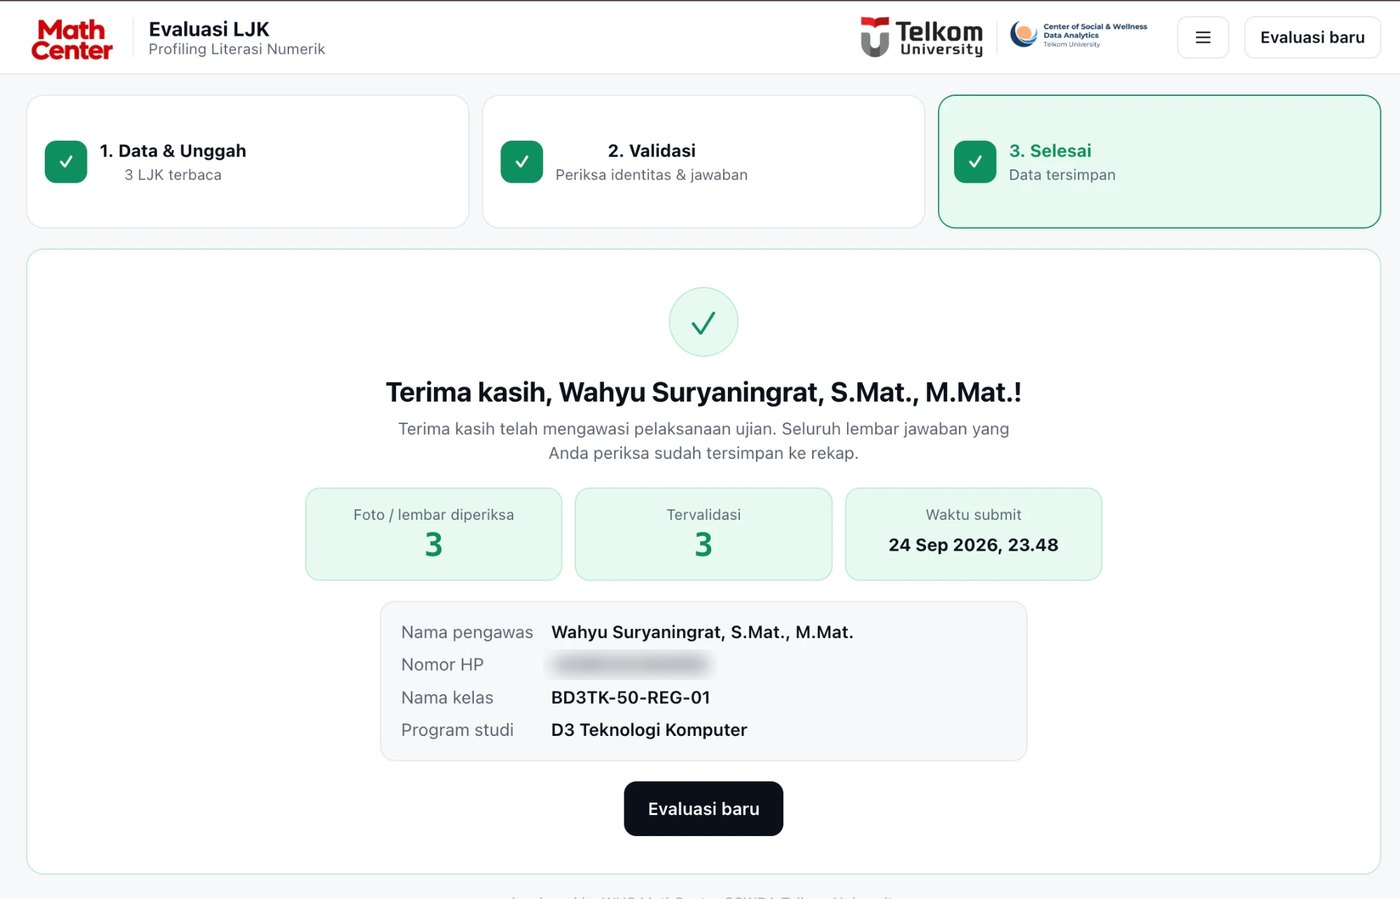
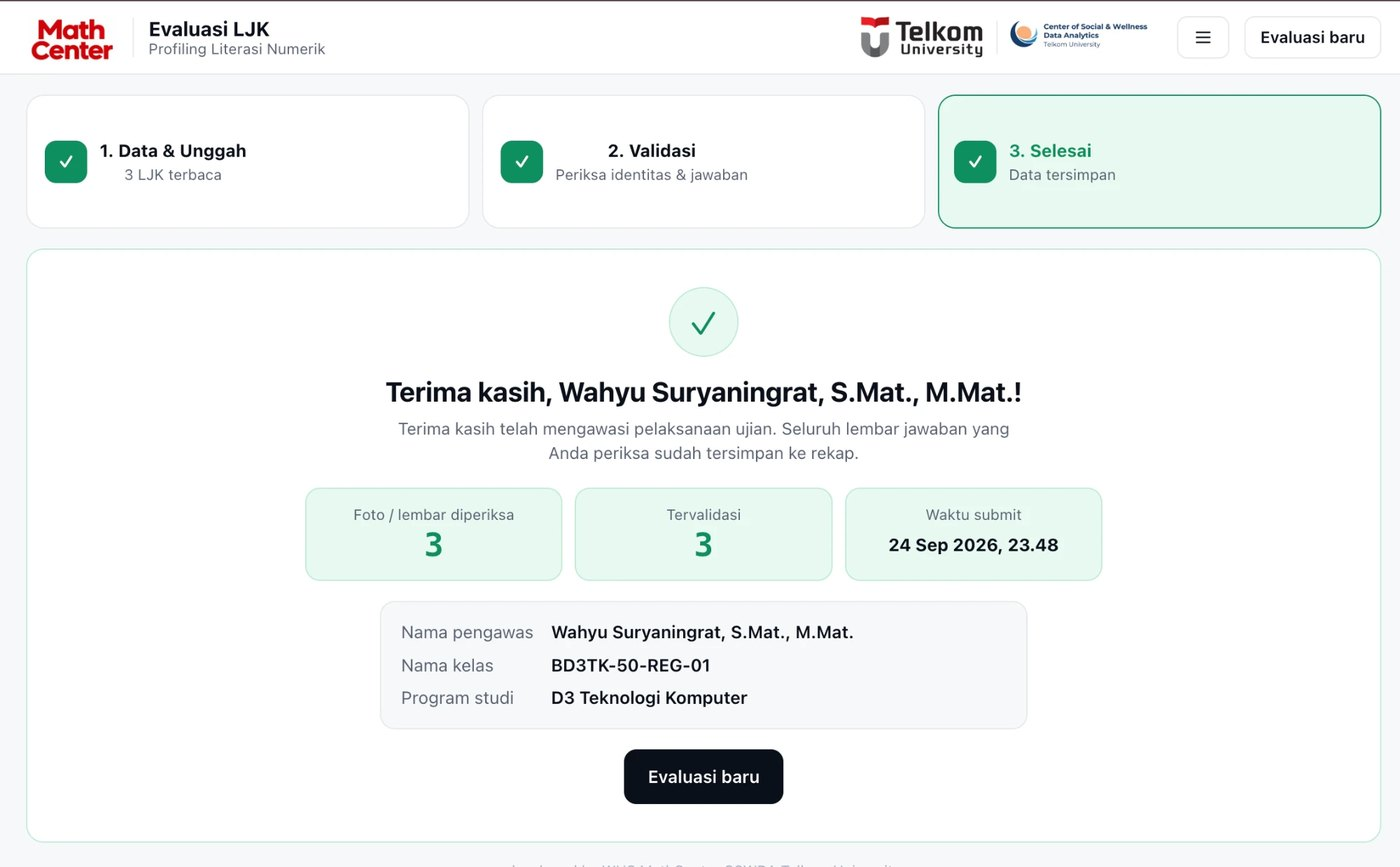
docs(panduan): unggah ulang foto Warning (gambar), status beraksen emoji tanpa Gagal, FAQ WAG; hapus nomor HP di halaman sukses

diff --git a/server/static/panduan.html b/server/static/panduan.html
@@ -51,6 +51,9 @@ section.s h3{font-size:clamp(21px,3.5vw,28px);margin:6px 0 14px}
 .stt{display:grid;gap:10px;grid-template-columns:repeat(auto-fit,minmax(min(100%,190px),1fr));margin-top:14px}
 .stt div{background:var(--card);border:1px solid var(--line);border-radius:12px;padding:12px 14px;font-size:14px;color:var(--ink2)}
 .stt b{display:block;color:var(--ink);margin-bottom:2px}
+.stt .st-c{background:#FFF8DB;border-color:#F3E3A0}.stt .st-c b{color:#8A6500}
+.stt .st-w{background:var(--bad-bg);border-color:var(--bad-line)}.stt .st-w b{color:var(--bad)}
+.stt .st-v{background:var(--ok-bg);border-color:var(--ok-line)}.stt .st-v b{color:var(--ok)}
 details.q{background:var(--card);border:1px solid var(--line);border-radius:12px;margin-bottom:10px}
 details.q summary{cursor:pointer;padding:14px 16px;font-weight:600;list-style:none;display:flex;justify-content:space-between;gap:12px}
 details.q summary::-webkit-details-marker{display:none}
@@ -144,21 +147,23 @@ footer.f{text-align:center;color:var(--ink3);font-size:12px;padding:32px 16px}
           <figcaption><b>!</b> Tekan <b>Submit hasil LJK</b> hanya kalau semua lembar sudah benar.</figcaption></figure></li>
     </ol>
     <div class="stt">
-      <div><b>Checking</b>Menunggu validasi Anda.</div>
-      <div><b>Warning</b>Ada yang perlu diperiksa, cek dan perbaiki dulu.</div>
-      <div><b>Validated</b>Sudah Anda setujui.</div>
-      <div><b>Gagal</b>Pojok LJK tidak terbaca, ganti dengan foto baru.</div>
+      <div class="st-c"><b>&#9203; Checking</b>Menunggu validasi Anda.</div>
+      <div class="st-w"><b>&#9888;&#65039; Warning</b>Ada data janggal (mis. NPM kurang digit atau jawaban terisi rendah). Cek ulang, atau ganti foto.</div>
+      <div class="st-v"><b>&#9989; Validated</b>Sudah Anda validasi dan siap dikirim.</div>
     </div>
   </section>
 
   <section class="s" id="ulang">
     <div class="kick">Jika ada masalah</div><h3 class="serif">Cara mengunggah ulang foto bermasalah</h3>
+    <p class="lead" style="font-size:15px">Lembar berstatus <b>&#9888;&#65039; Warning</b> (mis. NPM terbaca kurang dari 10 digit atau kode soal tidak valid) biasanya karena fotonya kurang baik. Ganti dengan foto baru tanpa mengulang dari awal.</p>
     <ol class="stp">
-      <li>Buka lembar berstatus <b>Gagal</b> atau <b>Warning</b>.</li>
-      <li>Tekan <b>Ganti foto</b>, lalu foto ulang sesuai ketentuan di atas.</li>
-      <li>Tunggu dipindai, periksa lagi, lalu <b>Validasi lembar ini</b>.</li>
+      <li><b>Buka lembar yang Warning:</b> tekan ikon mata pada barisnya untuk melihat rinciannya dan pratinjau hasil pindai.
+        <figure class="shot"><a href="/panduan/langkah-ganti-foto.jpg" target="_blank" rel="noopener" title="Klik untuk memperbesar"><img src="/panduan/langkah-ganti-foto.jpg" alt="Rincian lembar Warning dengan tombol Ganti foto dilingkari merah" loading="lazy" width="1400" height="920"></a>
+          <figcaption><b>!</b> Tekan <b>Ganti foto</b>, lalu pilih atau ambil foto baru untuk lembar ini.</figcaption></figure></li>
+      <li>Foto ulang sesuai ketentuan di atas (jelas, lengkap, latar putih bersih, tanpa bayangan).</li>
+      <li>Tunggu dipindai, periksa lagi, lalu tekan <b>Validasi lembar ini</b>.</li>
     </ol>
-    <div class="note warn">Gagal berkali-kali? Cek penyebabnya: blur, pojok terpotong, atau bayangan. Bila tetap gagal, hubungi panitia.</div>
+    <div class="note warn">Warning terus muncul setelah beberapa kali ganti foto? Periksa penyebabnya (blur, pojok terpotong, bayangan). Bila masih bermasalah, tanyakan di WAG relawan Math Center.</div>
   </section>
 
   <section class="s" id="submit">
@@ -178,10 +183,10 @@ footer.f{text-align:center;color:var(--ink3);font-size:12px;padding:32px 16px}
       <figure class="shot" style="margin:0 16px 16px"><a href="/panduan/sukses.jpg" target="_blank" rel="noopener" title="Klik untuk memperbesar"><img src="/panduan/sukses.jpg" alt="Halaman Terima kasih setelah submit berhasil" loading="lazy" width="1400" height="899"></a></figure></details>
     <details class="q"><summary>Foto saya terus gagal dipindai, kenapa?</summary><p>Penyebab paling umum: blur, pojok LJK terpotong, bayangan, atau ada kertas lain di bawahnya. Foto ulang sesuai ketentuan lalu tekan Ganti foto.</p></details>
     <details class="q"><summary>Internet putus saat mengunggah, apakah data hilang?</summary><p>Ulangi pengunggahan saat koneksi kembali. Lembar yang sudah terbaca tetap tersimpan di sesi Anda. Cek daftar lembar sebelum Submit.</p></details>
-    <details class="q"><summary>Salah memilih program studi atau kelas?</summary><p>Data ujian bisa diubah kapan saja sebelum Submit, dan semua lembar ikut diperbarui. Setelah Submit, hubungi panitia.</p></details>
-    <details class="q"><summary>Mahasiswa tidak sesuai jadwal atau ruangan?</summary><p>Pastikan mahasiswa hadir sesuai jadwal dan ruangan pada plot. Bila ada yang berbeda, catat dan laporkan ke panitia.</p></details>
+    <details class="q"><summary>Salah memilih program studi atau kelas?</summary><p>Data ujian bisa diubah kapan saja sebelum Submit, dan semua lembar ikut diperbarui. Setelah Submit, tanyakan di WAG relawan Math Center.</p></details>
+    <details class="q"><summary>Mahasiswa tidak sesuai jadwal atau ruangan?</summary><p>Pastikan mahasiswa hadir sesuai jadwal dan ruangan pada plot. Bila ada yang berbeda, catat dan laporkan di WAG relawan Math Center.</p></details>
     <details class="q"><summary>Apakah boleh menutup halaman saat memindai?</summary><p>Sebaiknya tunggu sampai proses memindai selesai supaya semua lembar terbaca.</p></details>
-    <details class="q"><summary>Siapa yang dihubungi bila ada kendala?</summary><p>Hubungi panitia Math Center CSWDA.</p></details>
+    <details class="q"><summary>Pertanyaan lebih lanjut atau kendala lainnya?</summary><p>Silakan koordinasi di <b>WAG relawan Math Center</b>.</p></details>
     <div class="cta"><a class="btn p" href="/ljk">Buka aplikasi upload LJK →</a></div>
   </section>
 </main>

diff --git a/server/static/ljk.html b/server/static/ljk.html
@@ -247,7 +247,6 @@
       </div>
       <dl class="who sumwho">
         <dt>Nama pengawas</dt><dd x-text="session?.pengawas?.nama"></dd>
-        <dt>Nomor HP</dt><dd x-text="session?.pengawas?.hp"></dd>
         <dt>Nama kelas</dt><dd x-text="session?.pengawas?.kelas || '-'"></dd>
         <dt>Program studi</dt><dd x-text="session?.pengawas?.prodi"></dd>
       </dl>
